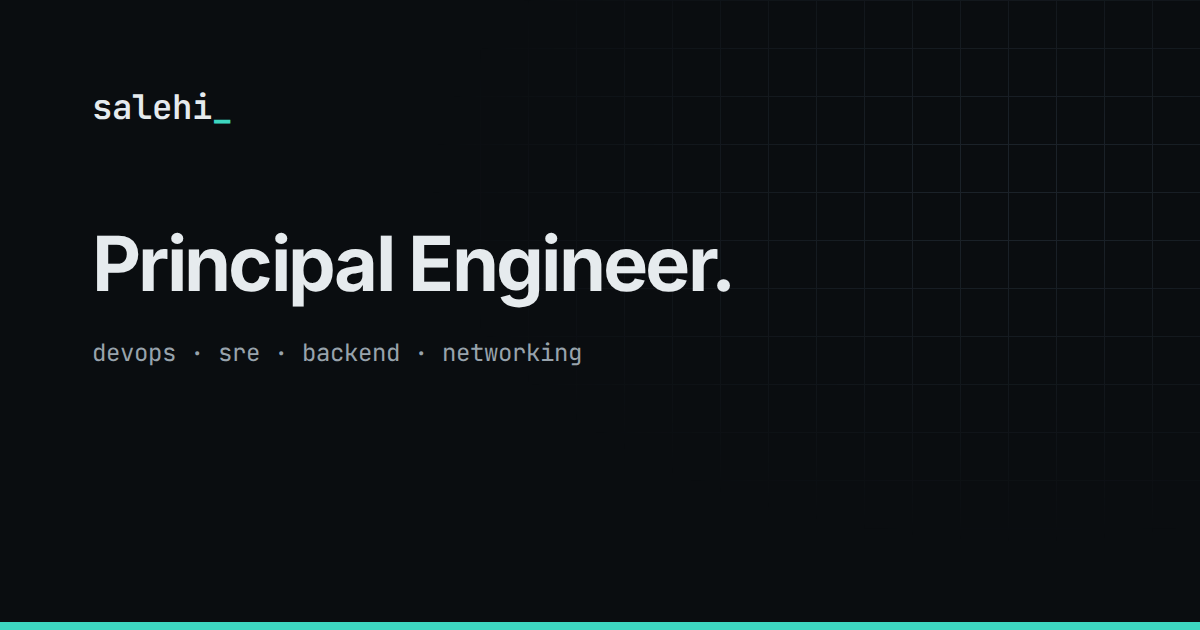
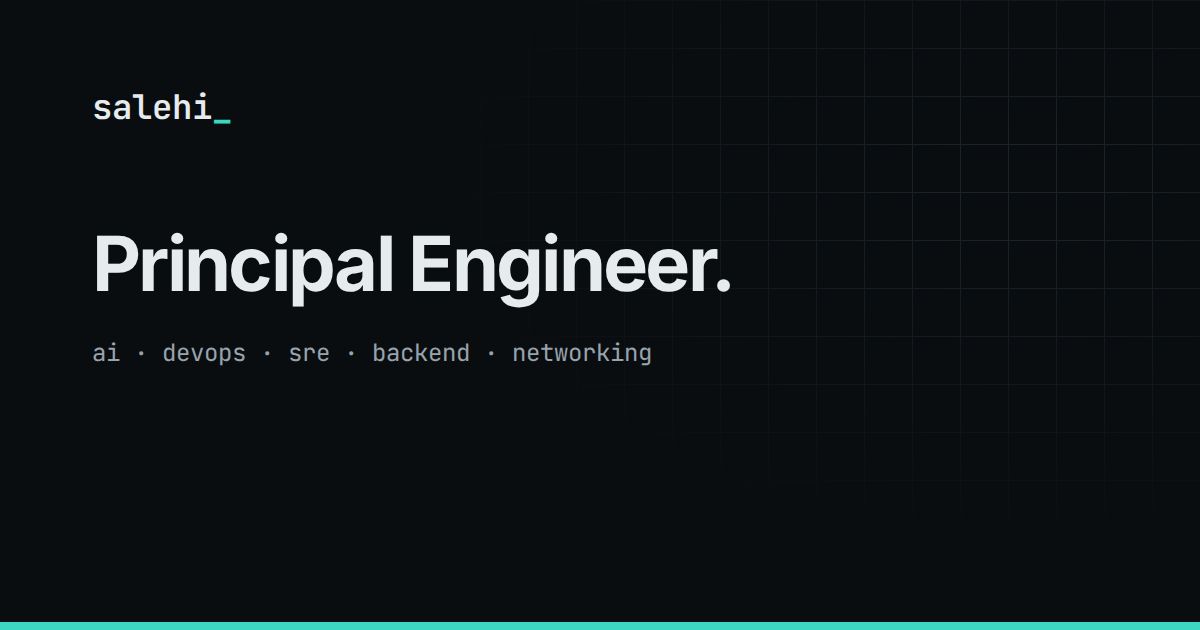
Add AI to title, drop capabilities section, hide profile repos from counts

Changed region(s): [[0.0617, 0.5429, 0.555, 0.573]]

diff --git a/src/data/site.ts b/src/data/site.ts
@@ -1,9 +1,9 @@
 export const site = {
   handle: 'salehi',
-  role: 'Principal Engineer — DevOps, SRE, backend & networking',
+  role: 'Principal Engineer — AI, DevOps, SRE, backend & networking',
   url: 'https://salehi.github.io',
   description:
-    'salehi — Principal Engineer across DevOps, SRE, backend and networking. 10+ years building and operating production infrastructure across Linux, networking, containers, CI/CD and observability.',
+    'salehi — Principal Engineer across AI, DevOps, SRE, backend and networking. 10+ years building and operating production infrastructure across Linux, networking, containers, CI/CD and observability.',
   email: 'salehi1994@gmail.com',
   links: {
     github: 'https://github.com/salehi',

diff --git a/src/data/cv.ts b/src/data/cv.ts
@@ -2,7 +2,7 @@
 // The phone number is intentionally left out of the public site and PDF.
 export const cv = {
   name: 'Muhammad Salehi',
-  title: 'Principal Engineer — DevOps, SRE, backend & networking',
+  title: 'Principal Engineer — AI, DevOps, SRE, backend & networking',
   summary:
     '10+ years building and operating production infrastructure across Linux, networking, containers, CI/CD, observability, backend systems and distributed network tooling.',
   location: 'Istanbul, Türkiye',

diff --git a/src/lib/github.ts b/src/lib/github.ts
@@ -1,5 +1,8 @@
 import snapshot from '../data/repos.snapshot.json';
 
+/** Repos that are infrastructure for the profile itself, not projects. */
+export const META_REPOS = new Set(['salehi.github.io', 'salehi']);
+
 export type Repo = {
   name: string;
   description: string | null;
